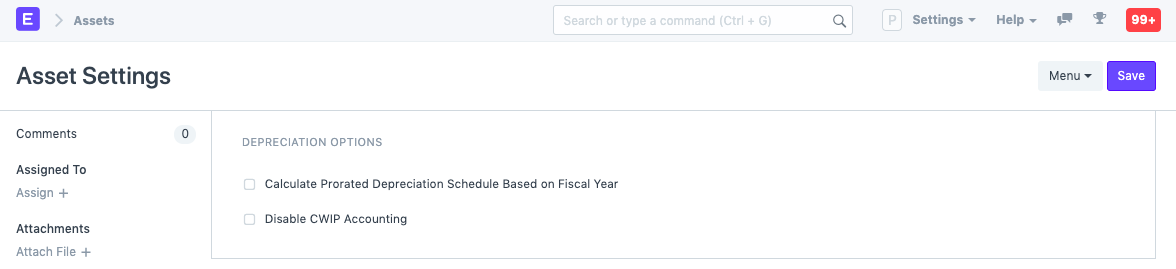
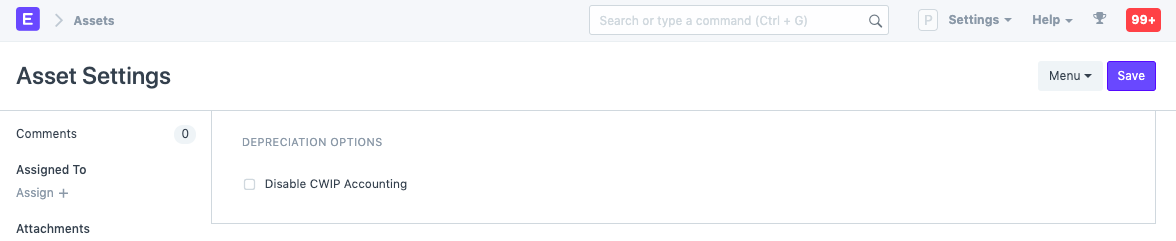
update asset settings

diff --git a/erpnext_com/www/docs/user/manual/en/asset/asset-settings.md b/erpnext_com/www/docs/user/manual/en/asset/asset-settings.md
@@ -1,11 +1,9 @@
 <!-- add-breadcrumbs -->
 # Asset Settings
 
-In Asset Settings, there are options to manage how the asset depreciation takes place.
+In Asset Settings, there is an option to manage how accounting on asset depreciation is done.
 
-The available options are:
-
-* **Calculate Prorated Depreciation Schedule Based on Fiscal Year**: 
+The available options is:
 
 * **Disable CWIP Accounting**: By default, accounting entry for assets which are not used are posted in the Capital Work in Progress accounts. This happens when you own the Asset but it isn't being used yet, i.e. 'Available for Use Date' is at a later date. If you use all your assets immediately, enable this feature. On enabling this, CWIP accounting will be skipped.
 
